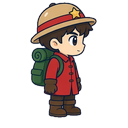
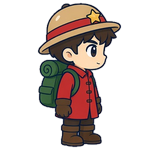
v0.5.1：主角换 160 画布高清帧，显示缩放回 1.0

diff --git a/src/game/scenes/RunScene.ts b/src/game/scenes/RunScene.ts
@@ -335,7 +335,7 @@ export class RunScene extends Phaser.Scene {
     this.particles = this.add.particles(0, 0, 'dot', { lifespan: 300, speed: { min: 140, max: 320 }, scale: { start: 0.9, end: 0.1 }, alpha: { start: 1, end: 0 }, emitting: false }).setDepth(9000);
     this.sparkP = this.add.particles(0, 0, 'spark', { lifespan: 220, speed: { min: 40, max: 120 }, scale: { start: 1, end: 0 }, emitting: false, blendMode: 'ADD' }).setDepth(9001);
     this.heroSh = this.add.image(this.px, this.py, 'shadow').setScale(1.35, 1.2);
-    this.hero = this.add.sprite(this.px, this.py, 'chr_player_idle_01').setOrigin(0.5, 120 / 128).play('hero_idle') as any;
+    this.hero = this.add.sprite(this.px, this.py, 'chr_player_idle_01').setOrigin(0.5, 150 / 160).play('hero_idle') as any;
     this.joyBase = this.add.image(0, 0, 'joy_base').setScrollFactor(0).setDepth(20000).setAlpha(0);
     this.joyKnob = this.add.image(0, 0, 'joy_knob').setScrollFactor(0).setDepth(20001).setAlpha(0);
     // 暗角
@@ -606,7 +606,7 @@ export class RunScene extends Phaser.Scene {
     this.heroLean += (lean - this.heroLean) * (1 - Math.exp(-dt * 16));
     hs.setFlipX(this.facing < 0).setDepth(this.py).setRotation(this.heroLean); if (!this.extracting) hs.setPosition(this.px, this.py);
     const breathe = this.moving ? 1 : 1 + Math.sin(this.now * 3) * 0.015;
-    const HS = 1.25; // 主角显示放大 1.25 倍（碰撞半径不变）
+    const HS = 1; // 美术已出 160 画布的放大版，显示不再缩放（碰撞半径不变）
     hs.setScale(HS / breathe, HS * breathe);
     this.heroSh.setPosition(this.px, this.py + 2).setDepth(this.py - 1);
     if (this.invT > 0) { this.invT -= dt; this.hero.setAlpha(Math.floor(this.invT * 20) % 2 ? 0.45 : 1); } else this.hero.setAlpha(1);

diff --git a/src/game/scenes/MenuScene.ts b/src/game/scenes/MenuScene.ts
@@ -41,7 +41,7 @@ export class MenuScene extends Phaser.Scene {
     txt(this, W / 2, top + 205, '搜 · 打 · 撤', 32, '#fff3d6', '#2b1d14', 6);
 
     // 主角
-    const hero = this.add.sprite(W / 2, heroY, 'chr_player_idle_01').setOrigin(0.5, 120 / 128).setScale(2.1).play('hero_idle');
+    const hero = this.add.sprite(W / 2, heroY, 'chr_player_idle_01').setOrigin(0.5, 150 / 160).setScale(1.7).play('hero_idle');
     this.add.image(W / 2, heroY, 'shadow').setScale(2.4, 2).setDepth(-1);
     const lvTag = txt(this, W / 2, heroY + 34, `探险家 Lv.${d.player.level}`, 30, '#fff', '#2b1d14', 6);
 
@@ -131,7 +131,7 @@ export class MenuScene extends Phaser.Scene {
     const d = Save.data;
     const { c, cx, top } = this.openModal('训练营', 620);
     const L = d.player.level; const cur = Cfg.charLv(L), nxt = Cfg.charLv(L + 1);
-    c.add(this.add.image(cx - 180, top + 230, 'chr_player_win_01').setScale(1.4));
+    c.add(this.add.image(cx - 180, top + 230, 'chr_player_win_01').setScale(1.15));
     c.add(txt(this, cx + 80, top + 120, `Lv.${L}  →  Lv.${L + 1}`, 40, '#4a3520', '#fff', 6));
     c.add(txt(this, cx + 80, top + 190, `生命 ${cur.hp} → ${nxt.hp}`, 30, '#c0392b', '#fff', 5));
     c.add(txt(this, cx + 80, top + 240, `攻击 ${cur.atk} → ${nxt.atk}`, 30, '#e67e22', '#fff', 5));

diff --git a/src/game/scenes/SettleScene.ts b/src/game/scenes/SettleScene.ts
@@ -19,7 +19,7 @@ export class SettleScene extends Phaser.Scene {
     const title = r.success ? (r.res.boss_killed ? '通关撤离！' : '撤离成功！') : r.protectedRun ? '新手保护生效' : '探险失败…';
     const t = txt(this, W / 2, top + 40, title, 72, r.success ? '#ffe27a' : r.protectedRun ? '#a8ff9c' : '#ff9c9c', '#2b1d14', 12).setScale(0.3);
     this.tweens.add({ targets: t, scale: 1, duration: 400, ease: 'Back.out' });
-    this.add.image(W / 2, top + 250, r.success ? 'chr_player_win_01' : 'chr_player_dead_01').setScale(1.5);
+    this.add.image(W / 2, top + 250, r.success ? 'chr_player_win_01' : 'chr_player_dead_01').setScale(1.2);
     txt(this, W / 2, top + 370, `第 ${r.res.floor} 层 · 击败 ${r.res.kills} 只 · 用时 ${Math.floor(r.res.time_s / 60)}:${String(r.res.time_s % 60).padStart(2, '0')}`, 26, '#fff', '#2b1d14', 5);
 
     // 物品格：一件件"啪"地落进格子（间隔 150ms）
